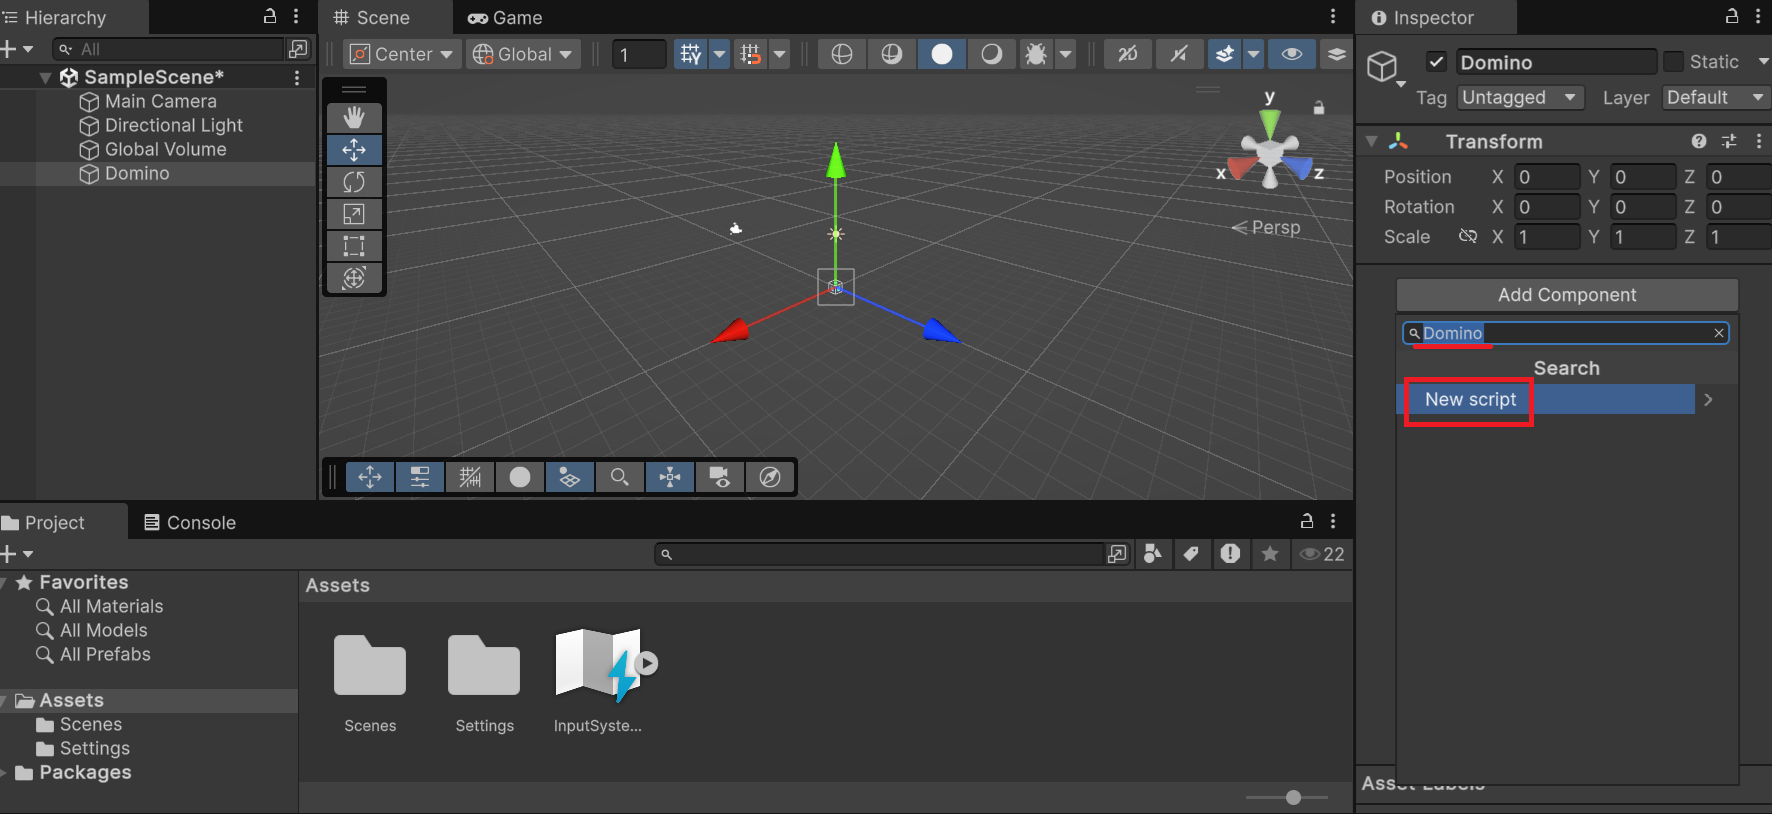
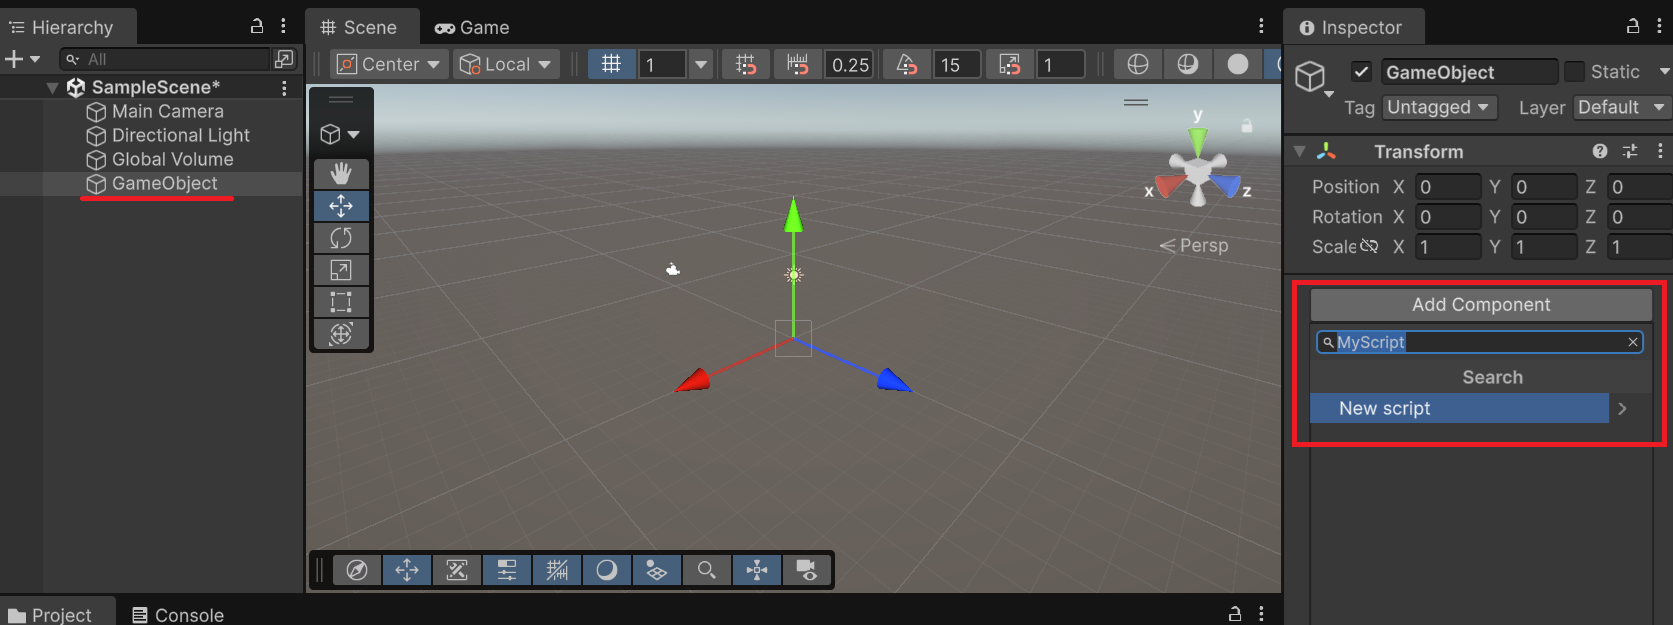
docs: Unity ゲームオブジェクト座標に関するページ更新。
画像を差し替え。

diff --git a/docs/unity/transform/index.md b/docs/unity/transform/index.md
@@ -10,10 +10,10 @@ permalink: /unity/transform/
 
 ## 学習目標
 
-- `transform` プロパティから Transform コンポーネントを取得できる
-- `localScale` でオブジェクトのサイズを変更できる
-- `position` でオブジェクトの位置を設定できる
-- `rotation`（`Quaternion.Euler`）でオブジェクトを回転させられる
++ `transform` プロパティから Transform コンポーネントを取得できる
++ `position` でオブジェクトの位置を設定できる
++ `rotation`（`Quaternion.Euler`）でオブジェクトを回転させられる
++ `localScale` でオブジェクトのサイズを変更できる
 
 ## 前提知識
 
@@ -65,36 +65,7 @@ new Vector3(20, 1, 10)  // X=20, Y=1, Z=10 の Vector3 値
 
 ---
 
-## 3. localScale でサイズを変更する
-
-**`Transform.localScale`** — オブジェクトのスケール（拡大率）を設定します。<!-- [公式ドキュメント]() -->
-
-**書式：Transform.localScale プロパティ**
-```csharp
-public Vector3 localScale { get; set; }
-```
-
-初期値は `new Vector3(1, 1, 1)`（等倍）です。たとえば X 方向に20倍、Y 方向を1倍、Z 方向に10倍に変形するには：
-
-```csharp
-using UnityEngine;
-
-public class Domino : MonoBehaviour
-{
-    private void Start()
-    {
-        var stage = GameObject.CreatePrimitive(PrimitiveType.Cube);
-        stage.name = "Stage";
-        stage.transform.localScale = new Vector3(20, 1, 10);
-    }
-}
-```
-
-![横長の直方体に変形した実行結果](./image-8.png)
-
----
-
-## 4. position で位置を設定する
+## 3. position で位置を設定する
 
 **`Transform.position`** — ワールド空間でのオブジェクトの位置を設定します。<!-- [公式ドキュメント]() -->
 
@@ -103,44 +74,35 @@ public class Domino : MonoBehaviour
 public Vector3 position { get; set; }
 ```
 
-何も指定しなければオブジェクトは原点（`Vector3(0, 0, 0)`）に生成されます。そのまま板を追加すると、ステージと同じ原点に生成されてめり込んでしまいます。
-
-```csharp
-var startTile = GameObject.CreatePrimitive(PrimitiveType.Cube);
-startTile.name = "Start Tile";
-startTile.transform.localScale = new Vector3(0.25F, 2, 1);
-```
-
-![位置を指定しない場合、板がステージにめり込む](./image-9.png)
-
-この問題を解決するには `position` プロパティで板を正しい位置に移動させます。
+何も指定しなければオブジェクトは原点（`Vector3(0, 0, 0)`）に生成されます。`position` を指定することで、オブジェクトを任意の位置に配置できます。複数のオブジェクトに異なる `position` を設定すると、位置の違いが一目でわかります。
 
 ```csharp
 using UnityEngine;
 
-public class Domino : MonoBehaviour
+public class TransformSample : MonoBehaviour
 {
     private void Start()
     {
-        var stage = GameObject.CreatePrimitive(PrimitiveType.Cube);
-        stage.name = "Stage";
-        stage.transform.localScale = new Vector3(20, 1, 10);
+        var cubeA = GameObject.CreatePrimitive(PrimitiveType.Cube);
+        cubeA.name = "CubeA";
+        cubeA.transform.position = new Vector3(-3, 0, 0);
 
-        var startTile = GameObject.CreatePrimitive(PrimitiveType.Cube);
-        startTile.name = "Start Tile";
-        startTile.transform.localScale = new Vector3(0.25F, 2, 1);
-        startTile.transform.position = new Vector3(-5, 1.5F, 0);
+        var cubeB = GameObject.CreatePrimitive(PrimitiveType.Cube);
+        cubeB.name = "CubeB";
+        cubeB.transform.position = new Vector3(0, 0, 0);
+
+        var cubeC = GameObject.CreatePrimitive(PrimitiveType.Cube);
+        cubeC.name = "CubeC";
+        cubeC.transform.position = new Vector3(3, 0, 0);
     }
 }
 ```
 
-![ステージ上に板が正しく配置された実行結果](./image-10.png)
-
-Y 軸に `1.5F` を指定することで、ステージ（高さ1）の上面に板の底面がちょうど乗る位置に調整しています。
+![3つのキューブが横に並んだ実行結果](image.png)
 
 ---
 
-## 5. rotation でオブジェクトを回転させる
+## 4. rotation でオブジェクトを回転させる
 
 **`Transform.rotation`** — オブジェクトの回転を設定します。<!-- [公式ドキュメント]() -->
 
@@ -169,34 +131,80 @@ public static Quaternion Euler(float x, float y, float z);
 ```csharp
 using UnityEngine;
 
-public class Domino : MonoBehaviour
+public class TransformSample : MonoBehaviour
 {
     private void Start()
     {
-        var stage = GameObject.CreatePrimitive(PrimitiveType.Cube);
-        stage.name = "Stage";
-        stage.transform.localScale = new Vector3(20, 1, 10);
+        var cubeA = GameObject.CreatePrimitive(PrimitiveType.Cube);
+        cubeA.name = "CubeA";
+        cubeA.transform.position = new Vector3(-3, 0, 0);
+        cubeA.transform.rotation = Quaternion.Euler(0, 0, 0);
 
-        var startTile = GameObject.CreatePrimitive(PrimitiveType.Cube);
-        startTile.name = "Start Tile";
-        startTile.transform.localScale = new Vector3(0.25F, 2, 1);
-        startTile.transform.position = new Vector3(-5, 1.5F, 0);
-        startTile.transform.rotation = Quaternion.Euler(0, 0, -10);
+        var cubeB = GameObject.CreatePrimitive(PrimitiveType.Cube);
+        cubeB.name = "CubeB";
+        cubeB.transform.position = new Vector3(0, 0, 0);
+        cubeB.transform.rotation = Quaternion.Euler(0, 0, 30);
+
+        var cubeC = GameObject.CreatePrimitive(PrimitiveType.Cube);
+        cubeC.name = "CubeC";
+        cubeC.transform.position = new Vector3(3, 0, 0);
+        cubeC.transform.rotation = Quaternion.Euler(0, 0, 60);
     }
 }
 ```
 
-![板が傾いた実行結果](./image-11.png)
+![Z 軸まわりに 0・30・60 度回転した 3 つのキューブ](image-1.png)
 
-Z 軸に `-10` 度を指定することで、板を右方向に少し傾けています。
+Z 軸に 0・30・60 度をそれぞれ指定することで、回転量の違いが比較できます。
+
+---
+
+## 5. localScale でサイズを変更する
+
+**`Transform.localScale`** — オブジェクトのスケール（拡大率）を設定します。<!-- [公式ドキュメント]() -->
+
+**書式：Transform.localScale プロパティ**
+```csharp
+public Vector3 localScale { get; set; }
+```
+
+初期値は `new Vector3(1, 1, 1)`（等倍）です。複数のオブジェクトに異なるスケールを設定すると、大きさの違いが一目でわかります。
+
+```csharp
+using UnityEngine;
+
+public class TransformSample : MonoBehaviour
+{
+    private void Start()
+    {
+        var cubeA = GameObject.CreatePrimitive(PrimitiveType.Cube);
+        cubeA.name = "CubeA";
+        cubeA.transform.position = new Vector3(-3, 0, 0);
+        cubeA.transform.localScale = new Vector3(1, 1, 1);
+
+        var cubeB = GameObject.CreatePrimitive(PrimitiveType.Cube);
+        cubeB.name = "CubeB";
+        cubeB.transform.position = new Vector3(0, 0, 0);
+        cubeB.transform.localScale = new Vector3(2, 1, 1);
+
+        var cubeC = GameObject.CreatePrimitive(PrimitiveType.Cube);
+        cubeC.name = "CubeC";
+        cubeC.transform.position = new Vector3(3, 0, 0);
+        cubeC.transform.localScale = new Vector3(1, 2, 1);
+    }
+}
+```
+
+![スケールが 1・横2倍・縦2倍の 3 つのキューブ](image-2.png)
 
 ---
 
 ## まとめ
 
-- Transform コンポーネントはすべての GameObject が持ち、**位置・サイズ・回転**を管理する
-- `localScale`・`position` には `new Vector3(x, y, z)` で値を設定する
+- Transform コンポーネントはすべての GameObject が持ち、**位置・回転・サイズ**を管理する
+- `position` には `new Vector3(x, y, z)` でワールド座標を設定する
 - `rotation` には `Quaternion.Euler(x, y, z)` でオイラー角から変換した値を使う
+- `localScale` には `new Vector3(x, y, z)` で各軸の拡大率を設定する
 
 ---
 

diff --git a/docs/unity/gameobject-basics/index.md b/docs/unity/gameobject-basics/index.md
@@ -38,7 +38,7 @@ public static GameObject CreatePrimitive(PrimitiveType type);
 ```csharp
 using UnityEngine;
 
-public class Domino : MonoBehaviour
+public class MyScript : MonoBehaviour
 {
     private void Start()
     {
@@ -73,10 +73,10 @@ var 変数名 = 初期値;
 - 保存する内容がわかりやすい名前にするべき
 
 ```csharp
-var stage = GameObject.CreatePrimitive(PrimitiveType.Cube);
+var cube = GameObject.CreatePrimitive(PrimitiveType.Cube);
 ```
 
-上記は `CreatePrimitive()` で作成した立方体を `stage` という変数に受け取っています。以降 `stage` という名前でこの立方体を識別できます。
+上記は `CreatePrimitive()` で作成した立方体を `cube` という変数に受け取っています。以降 `cube` という名前でこの立方体を識別できます。
 
 ---
 
